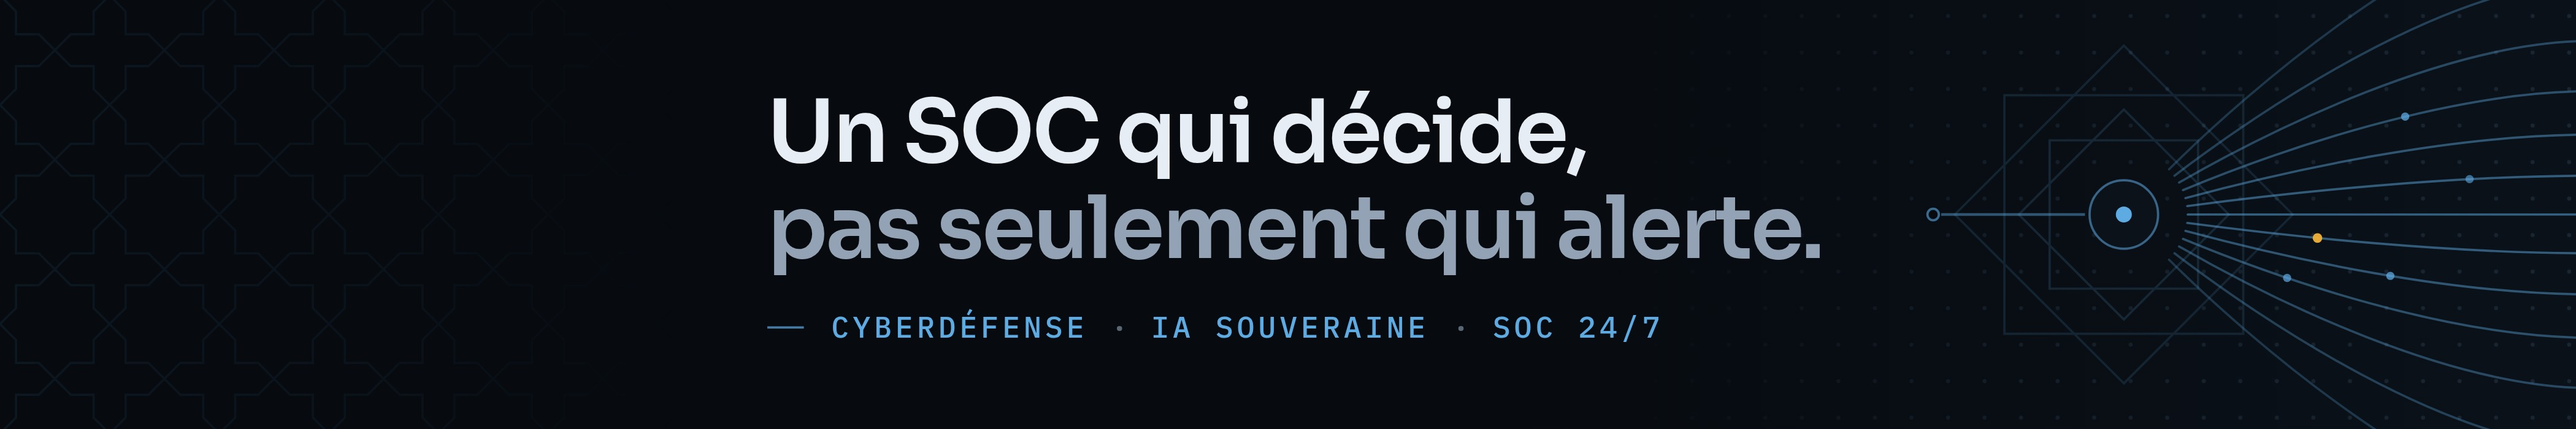
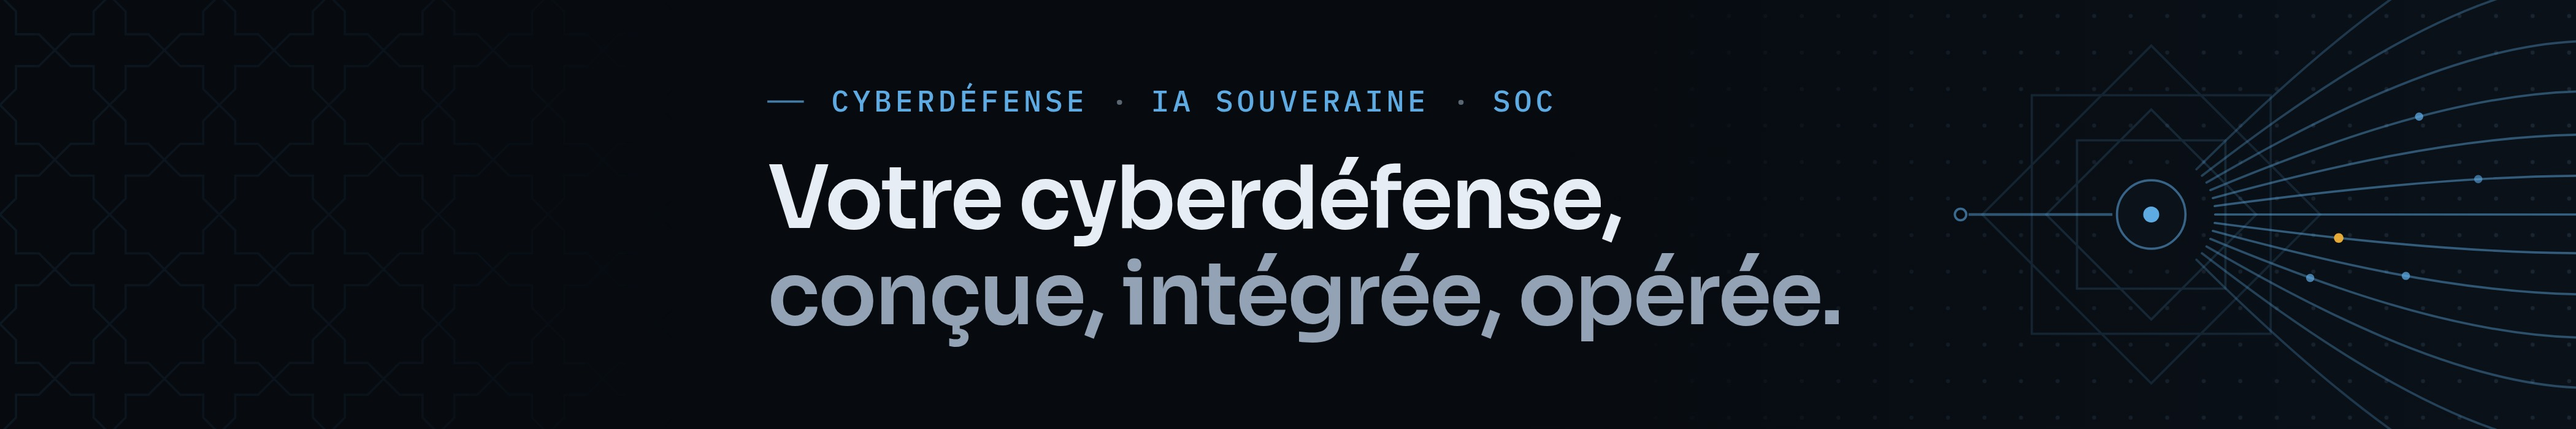
Couverture LinkedIn : titre choisi « Votre cyberdéfense, conçue, intégrée, opérée. », libellés au-dessus (variante en dessous)
Claude-Session: https://claude.ai/code/session_01HngNwfDBcTFc9JetGji5dS

diff --git a/brand/tools/linkedin/cover.html b/brand/tools/linkedin/cover.html
@@ -15,6 +15,7 @@ h1 .second{color:#93A3B5}
  color:#5EAAE3;white-space:nowrap;display:flex;align-items:center;gap:10px}
 .labels::before{content:"";width:16px;height:1px;background:#5EAAE3;opacity:.7;margin-right:2px}
 .labels .sep{color:#93A3B5;opacity:.6;letter-spacing:0}
+
 </style></head><body><div class="cover">
 <svg class="art" width="1128" height="188" viewBox="0 0 1128 188" fill="none" xmlns="http://www.w3.org/2000/svg" aria-hidden="true">
 <defs>
@@ -31,34 +32,34 @@ h1 .second{color:#93A3B5}
 </defs>
 <rect width="1128" height="188" fill="url(#dots)" mask="url(#dotMask)"/>
 <path d="M48 -2L41 5L41 15L31 15L24 22L17 15L7 15L7 5L0 -2L7 -9L7 -19L17 -19L24 -26L31 -19L41 -19L41 -9ZM48 46L41 53L41 63L31 63L24 70L17 63L7 63L7 53L0 46L7 39L7 29L17 29L24 22L31 29L41 29L41 39ZM48 94L41 101L41 111L31 111L24 118L17 111L7 111L7 101L0 94L7 87L7 77L17 77L24 70L31 77L41 77L41 87ZM48 142L41 149L41 159L31 159L24 166L17 159L7 159L7 149L0 142L7 135L7 125L17 125L24 118L31 125L41 125L41 135ZM48 190L41 197L41 207L31 207L24 214L17 207L7 207L7 197L0 190L7 183L7 173L17 173L24 166L31 173L41 173L41 183ZM96 -2L89 5L89 15L79 15L72 22L65 15L55 15L55 5L48 -2L55 -9L55 -19L65 -19L72 -26L79 -19L89 -19L89 -9ZM96 46L89 53L89 63L79 63L72 70L65 63L55 63L55 53L48 46L55 39L55 29L65 29L72 22L79 29L89 29L89 39ZM96 94L89 101L89 111L79 111L72 118L65 111L55 111L55 101L48 94L55 87L55 77L65 77L72 70L79 77L89 77L89 87ZM96 142L89 149L89 159L79 159L72 166L65 159L55 159L55 149L48 142L55 135L55 125L65 125L72 118L79 125L89 125L89 135ZM96 190L89 197L89 207L79 207L72 214L65 207L55 207L55 197L48 190L55 183L55 173L65 173L72 166L79 173L89 173L89 183ZM144 -2L137 5L137 15L127 15L120 22L113 15L103 15L103 5L96 -2L103 -9L103 -19L113 -19L120 -26L127 -19L137 -19L137 -9ZM144 46L137 53L137 63L127 63L120 70L113 63L103 63L103 53L96 46L103 39L103 29L113 29L120 22L127 29L137 29L137 39ZM144 94L137 101L137 111L127 111L120 118L113 111L103 111L103 101L96 94L103 87L103 77L113 77L120 70L127 77L137 77L137 87ZM144 142L137 149L137 159L127 159L120 166L113 159L103 159L103 149L96 142L103 135L103 125L113 125L120 118L127 125L137 125L137 135ZM144 190L137 197L137 207L127 207L120 214L113 207L103 207L103 197L96 190L103 183L103 173L113 173L120 166L127 173L137 173L137 183ZM192 -2L185 5L185 15L175 15L168 22L161 15L151 15L151 5L144 -2L151 -9L151 -19L161 -19L168 -26L175 -19L185 -19L185 -9ZM192 46L185 53L185 63L175 63L168 70L161 63L151 63L151 53L144 46L151 39L151 29L161 29L168 22L175 29L185 29L185 39ZM192 94L185 101L185 111L175 111L168 118L161 111L151 111L151 101L144 94L151 87L151 77L161 77L168 70L175 77L185 77L185 87ZM192 142L185 149L185 159L175 159L168 166L161 159L151 159L151 149L144 142L151 135L151 125L161 125L168 118L175 125L185 125L185 135ZM192 190L185 197L185 207L175 207L168 214L161 207L151 207L151 197L144 190L151 183L151 173L161 173L168 166L175 173L185 173L185 183ZM240 -2L233 5L233 15L223 15L216 22L209 15L199 15L199 5L192 -2L199 -9L199 -19L209 -19L216 -26L223 -19L233 -19L233 -9ZM240 46L233 53L233 63L223 63L216 70L209 63L199 63L199 53L192 46L199 39L199 29L209 29L216 22L223 29L233 29L233 39ZM240 94L233 101L233 111L223 111L216 118L209 111L199 111L199 101L192 94L199 87L199 77L209 77L216 70L223 77L233 77L233 87ZM240 142L233 149L233 159L223 159L216 166L209 159L199 159L199 149L192 142L199 135L199 125L209 125L216 118L223 125L233 125L233 135ZM240 190L233 197L233 207L223 207L216 214L209 207L199 207L199 197L192 190L199 183L199 173L209 173L216 166L223 173L233 173L233 183ZM288 -2L281 5L281 15L271 15L264 22L257 15L247 15L247 5L240 -2L247 -9L247 -19L257 -19L264 -26L271 -19L281 -19L281 -9ZM288 46L281 53L281 63L271 63L264 70L257 63L247 63L247 53L240 46L247 39L247 29L257 29L264 22L271 29L281 29L281 39ZM288 94L281 101L281 111L271 111L264 118L257 111L247 111L247 101L240 94L247 87L247 77L257 77L264 70L271 77L281 77L281 87ZM288 142L281 149L281 159L271 159L264 166L257 159L247 159L247 149L240 142L247 135L247 125L257 125L264 118L271 125L281 125L281 135ZM288 190L281 197L281 207L271 207L264 214L257 207L247 207L247 197L240 190L247 183L247 173L257 173L264 166L271 173L281 173L281 183ZM336 -2L329 5L329 15L319 15L312 22L305 15L295 15L295 5L288 -2L295 -9L295 -19L305 -19L312 -26L319 -19L329 -19L329 -9ZM336 46L329 53L329 63L319 63L312 70L305 63L295 63L295 53L288 46L295 39L295 29L305 29L312 22L319 29L329 29L329 39ZM336 94L329 101L329 111L319 111L312 118L305 111L295 111L295 101L288 94L295 87L295 77L305 77L312 70L319 77L329 77L329 87ZM336 142L329 149L329 159L319 159L312 166L305 159L295 159L295 149L288 142L295 135L295 125L305 125L312 118L319 125L329 125L329 135ZM336 190L329 197L329 207L319 207L312 214L305 207L295 207L295 197L288 190L295 183L295 173L305 173L312 166L319 173L329 173L329 183Z" stroke="#5EAAE3" stroke-opacity=".08" mask="url(#latMask)"/>
-<path d="M982.3 146.3L877.7 146.3L877.7 41.7L982.3 41.7ZM930 168L856 94L930 20L1004 94Z" stroke="#5EAAE3" stroke-opacity=".14"/>
-<path d="M962.5 126.5L897.5 126.5L897.5 61.5L962.5 61.5ZM930 140L884 94L930 48L976 94Z" stroke="#5EAAE3" stroke-opacity=".16"/>
+<path d="M994.3 146.3L889.7 146.3L889.7 41.7L994.3 41.7ZM942 168L868 94L942 20L1016 94Z" stroke="#5EAAE3" stroke-opacity=".14"/>
+<path d="M974.5 126.5L909.5 126.5L909.5 61.5L974.5 61.5ZM942 140L896 94L942 48L988 94Z" stroke="#5EAAE3" stroke-opacity=".16"/>
 <g stroke="#5EAAE3" stroke-width="1" stroke-linecap="round">
- <path d="M1134 -38C1072.8 -38 982.3 41.7 949.8 74.2" stroke-opacity="0.26"/>
- <path d="M1134 -8C1072.8 -8 988.7 49 952.2 77" stroke-opacity="0.32"/>
- <path d="M1134 18C1072.8 18 994.1 57 954.2 80" stroke-opacity="0.37"/>
- <path d="M1134 40C1072.8 40 998.4 65.7 955.9 83.3" stroke-opacity="0.41"/>
- <path d="M1134 59C1072.8 59 1001.5 74.8 957 86.8" stroke-opacity="0.45"/>
- <path d="M1134 77C1072.8 77 1003.4 84.3 957.8 90.3" stroke-opacity="0.49"/>
- <path d="M1134 94C1072.8 94 1004 94 958 94" stroke-opacity="0.52"/>
- <path d="M1134 111C1072.8 111 1003.4 103.7 957.8 97.7" stroke-opacity="0.49"/>
- <path d="M1134 129C1072.8 129 1001.5 113.2 957 101.2" stroke-opacity="0.45"/>
- <path d="M1134 148C1072.8 148 998.4 122.3 955.9 104.7" stroke-opacity="0.41"/>
- <path d="M1134 170C1072.8 170 994.1 131 954.2 108" stroke-opacity="0.37"/>
- <path d="M1134 196C1072.8 196 988.7 139 952.2 111" stroke-opacity="0.32"/>
- <path d="M1134 226C1072.8 226 982.3 146.3 949.8 113.8" stroke-opacity="0.26"/>
+ <path d="M1134 -38C1076.4 -38 994.3 41.7 961.8 74.2" stroke-opacity="0.26"/>
+ <path d="M1134 -8C1076.4 -8 1000.7 49 964.2 77" stroke-opacity="0.32"/>
+ <path d="M1134 18C1076.4 18 1006.1 57 966.2 80" stroke-opacity="0.37"/>
+ <path d="M1134 40C1076.4 40 1010.4 65.7 967.9 83.3" stroke-opacity="0.41"/>
+ <path d="M1134 59C1076.4 59 1013.5 74.8 969 86.8" stroke-opacity="0.45"/>
+ <path d="M1134 77C1076.4 77 1015.4 84.3 969.8 90.3" stroke-opacity="0.49"/>
+ <path d="M1134 94C1076.4 94 1016 94 970 94" stroke-opacity="0.52"/>
+ <path d="M1134 111C1076.4 111 1015.4 103.7 969.8 97.7" stroke-opacity="0.49"/>
+ <path d="M1134 129C1076.4 129 1013.5 113.2 969 101.2" stroke-opacity="0.45"/>
+ <path d="M1134 148C1076.4 148 1010.4 122.3 967.9 104.7" stroke-opacity="0.41"/>
+ <path d="M1134 170C1076.4 170 1006.1 131 966.2 108" stroke-opacity="0.37"/>
+ <path d="M1134 196C1076.4 196 1000.7 139 964.2 111" stroke-opacity="0.32"/>
+ <path d="M1134 226C1076.4 226 994.3 146.3 961.8 113.8" stroke-opacity="0.26"/>
 </g>
-<circle cx="1053.2" cy="51.1" r="1.8" fill="#5EAAE3" fill-opacity="0.75"/>
-<circle cx="1081.4" cy="78.5" r="1.8" fill="#5EAAE3" fill-opacity="0.6"/>
-<circle cx="1046.7" cy="120.9" r="1.8" fill="#5EAAE3" fill-opacity="0.75"/>
-<circle cx="1001.5" cy="121.8" r="1.8" fill="#5EAAE3" fill-opacity="0.7"/>
-<circle cx="1014.8" cy="104.3" r="2.1" fill="#F2B138" fill-opacity="0.95"/>
-<path d="M850 94H913" stroke="#5EAAE3" stroke-opacity=".45" stroke-width="1.2"/>
-<circle cx="846.5" cy="94" r="2.5" fill="#070B10" stroke="#5EAAE3" stroke-opacity=".6"/>
-<circle cx="930" cy="94" r="15" fill="#0B121A" stroke="#5EAAE3" stroke-opacity=".55"/>
-<circle cx="930" cy="94" r="3.5" fill="#5EAAE3"/>
+<circle cx="1059.3" cy="51.1" r="1.8" fill="#5EAAE3" fill-opacity="0.75"/>
+<circle cx="1085.2" cy="78.5" r="1.8" fill="#5EAAE3" fill-opacity="0.6"/>
+<circle cx="1053.5" cy="120.9" r="1.8" fill="#5EAAE3" fill-opacity="0.75"/>
+<circle cx="1011.6" cy="121.8" r="1.8" fill="#5EAAE3" fill-opacity="0.7"/>
+<circle cx="1024.1" cy="104.3" r="2.1" fill="#F2B138" fill-opacity="0.95"/>
+<path d="M862 94H925" stroke="#5EAAE3" stroke-opacity=".45" stroke-width="1.2"/>
+<circle cx="858.5" cy="94" r="2.5" fill="#070B10" stroke="#5EAAE3" stroke-opacity=".6"/>
+<circle cx="942" cy="94" r="15" fill="#0B121A" stroke="#5EAAE3" stroke-opacity=".55"/>
+<circle cx="942" cy="94" r="3.5" fill="#5EAAE3"/>
 </svg>
 <div class="copy">
- <h1>Un SOC qui décide,<br><span class="second">pas seulement qui alerte.</span></h1>
- <p class="labels"><span>Cyberdéfense</span><span class="sep">·</span><span>IA souveraine</span><span class="sep">·</span><span>SOC 24/7</span></p>
+ <h1>Votre cyberdéfense,<br><span class="second">conçue, intégrée, opérée.</span></h1>
+ <p class="labels"><span>Cyberdéfense</span><span class="sep">·</span><span>IA souveraine</span><span class="sep">·</span><span>SOC</span></p>
 </div></div></body></html>

diff --git a/brand/tools/linkedin/build.js b/brand/tools/linkedin/build.js
@@ -1,4 +1,5 @@
-// Couverture LinkedIn BLACKVAULT, direction « Signal souverain » (variante A retenue, corrections des critiques).
+// Couverture LinkedIn BLACKVAULT, direction « Signal souverain » (piste A retenue, corrections des critiques).
+// Titre choisi par le client le 27/09 : « Votre cyberdéfense, conçue, intégrée, opérée. », libellés « Cyberdéfense · IA souveraine · SOC ».
 // Mise en page à 1128 x 188 px CSS (ratio 6:1), export 4200 x 700 (taille de téléversement recommandée par LinkedIn).
 // Usage : node build.js  -> écrit cover.html, puis les PNG/JPG et les aperçus dans assets/linkedin/.
 const fs = require('fs');
@@ -11,9 +12,13 @@ const FONTS = path.join(REPO, 'plugin/blackvault-design/assets/fonts');
 const AVATAR = 'file://' + path.join(REPO, 'assets/favicon/blackvault-icon-512.png');
 const W = 1128, H = 188, EXPORT_W = 4200;
 // Paramètres facultatifs (maquettes de slogans) : L1, L2, LABELS (séparés par |), MOCK_OUT (chemin d'un PNG 2x, sans aperçus).
-const L1 = process.env.L1 || 'Un SOC qui décide,';
-const L2 = process.env.L2 || 'pas seulement qui alerte.';
-const LABELS = (process.env.LABELS || 'Cyberdéfense|IA souveraine|SOC 24/7').split('|');
+const L1 = process.env.L1 || 'Votre cyberdéfense,';
+const L2 = process.env.L2 || 'conçue, intégrée, opérée.';
+const LABELS = (process.env.LABELS || 'Cyberdéfense|IA souveraine|SOC').split('|');
+// Position de la ligne de libellés : 'top' (sur-titre, comme sur le site) ou 'bottom'.
+const LABELS_POS = process.env.LABELS_POS || 'top';
+// Suffixe des fichiers exportés (variante), vide pour la version principale.
+const SUFFIX = process.env.SUFFIX || '';
 const MOCK = process.env.MOCK_OUT || '';
 const DSF = EXPORT_W / W; // 3,7234 -> 4200 x 700
 
@@ -21,7 +26,7 @@ const C = { bg: '#070B10', bgAlt: '#0B121A', borderStrong: '#2A3B4D', ink: '#E6E
 const f = (n) => Number(n.toFixed(1));
 
 // Rails : 13 lignes qui entrent par la droite et convergent vers un nœud creux.
-const node = { x: 930, y: H / 2, ring: 15 };
+const node = { x: 942, y: H / 2, ring: 15 };
 const railStartX = W + 6, span = railStartX - node.x, END_R = 28, LEAD = 46, MAXANG = 45;
 const offsets = [-132, -102, -76, -54, -35, -17, 0, 17, 35, 54, 76, 102, 132];
 const rails = offsets.map((o, i) => {
@@ -60,7 +65,7 @@ const star = (cx, cy, R) => {
 let lattice = '';
 for (let x = 24; x < 340; x += 48) for (let y = H / 2 - 96; y < H + 48; y += 48) lattice += star(x, y, 24);
 
-const out = { x1: 850, x2: node.x - node.ring - 2 };
+const out = { x1: 862, x2: node.x - node.ring - 2 };
 
 const LATIN = 'U+0000-00FF, U+0131, U+0152-0153, U+02BB-02BC, U+02C6, U+02DA, U+02DC, U+0304, U+0308, U+0329, U+2000-206F, U+20AC, U+2122, U+2191, U+2193, U+2212, U+2215, U+FEFF, U+FFFD';
 const LATIN_EXT = 'U+0100-02BA, U+02BD-02C5, U+02C7-02CC, U+02CE-02D7, U+02DD-02FF, U+1E00-1E9F, U+20A0-20AB, U+20AD-20C0, U+2C60-2C7F, U+A720-A7FF';
@@ -111,6 +116,7 @@ h1 .second{color:${C.muted}}
  color:${C.accentSoft};white-space:nowrap;display:flex;align-items:center;gap:10px}
 .labels::before{content:"";width:16px;height:1px;background:${C.accentSoft};opacity:.7;margin-right:2px}
 .labels .sep{color:${C.muted};opacity:.6;letter-spacing:0}
+${LABELS_POS === 'top' ? '.labels{order:-1}' : ''}
 </style></head><body><div class="cover">
 ${svg}
 <div class="copy">
@@ -151,11 +157,11 @@ body{width:390px;height:320px;background:#fff;font-family:${SYS};overflow:hidden
   });
   const clip = { x: 0, y: 0, width: W, height: H };
   if (MOCK) { await p.screenshot({ path: MOCK, clip }); await b.close(); fs.unlinkSync(path.join(__dirname, '_mock.html')); console.log(JSON.stringify(info)); return; }
-  await p.screenshot({ path: path.join(OUT, 'blackvault-linkedin-couverture-4200x700.png'), clip });
-  await p.screenshot({ path: path.join(OUT, 'blackvault-linkedin-couverture-4200x700.jpg'), clip, type: 'jpeg', quality: 92 });
+  await p.screenshot({ path: path.join(OUT, `blackvault-linkedin-couverture-4200x700${SUFFIX}.png`), clip });
+  await p.screenshot({ path: path.join(OUT, `blackvault-linkedin-couverture-4200x700${SUFFIX}.jpg`), clip, type: 'jpeg', quality: 92 });
   await ctx.close();
-  const src = 'file://' + path.join(OUT, 'blackvault-linkedin-couverture-4200x700.png');
-  for (const [name, htmlStr, vw, vh] of [['apercu-desktop.png', desktop(src), 1400, 520], ['apercu-mobile.png', mobile(src), 390, 320]]) {
+  const src = 'file://' + path.join(OUT, `blackvault-linkedin-couverture-4200x700${SUFFIX}.png`);
+  for (const [name, htmlStr, vw, vh] of [[`apercu-desktop${SUFFIX}.png`, desktop(src), 1400, 520], [`apercu-mobile${SUFFIX}.png`, mobile(src), 390, 320]]) {
     const tmp = path.join(__dirname, '_' + name + '.html'); fs.writeFileSync(tmp, htmlStr);
     const c2 = await b.newContext({ viewport: { width: vw, height: vh }, deviceScaleFactor: name.includes('mobile') ? 3 : 1 });
     const q = await c2.newPage(); await q.goto('file://' + tmp);

diff --git a/ASSETS.md b/ASSETS.md
@@ -113,7 +113,7 @@ Tous les médias créés portent la méta `_bvd_created` (version du plugin), ce
 | `assets/linkedin/apercu-desktop.png`, `apercu-mobile.png` | Mises en situation approximatives : logo de la page en bas à gauche ; recadrage mobile sur les 900 px centraux |
 | `brand/tools/linkedin/build.js`, `cover.html` | Générateur (HTML/SVG rendu par Chromium) ; `brand/boards/linkedin-variantes.png` montre les 3 pistes étudiées |
 
-Composition : piste « Signal » retenue par deux critiques indépendants, parmi trois (Signal, Écosystème avec logos produit, Souverain). Le slogan existant « Un SOC qui décide, pas seulement qui alerte. » et les libellés existants « Cyberdéfense · IA souveraine · SOC 24/7 », sans aucun ajout de texte. À droite, les rails du héros du site convergent vers un nœud creux, avec deux étoiles zellige ; une trame zellige très légère passe sous le logo de la page. Polices Sora 600 et IBM Plex Mono 500 (OFL), palette du site, aucun logo tiers.
+Composition : piste « Signal » retenue par deux critiques indépendants, parmi trois (Signal, Écosystème avec logos produit, Souverain). Titre choisi par l'utilisateur le 27/09 parmi les propositions de `brand/SLOGANS.md` : « Votre cyberdéfense, conçue, intégrée, opérée. », avec la ligne « Cyberdéfense · IA souveraine · SOC » au-dessus, en sur-titre comme sur le site. Une variante garde cette ligne sous le titre : fichiers suffixés `-libelles-dessous`. La première version (« Un SOC qui décide, pas seulement qui alerte. ») reste dans l'historique git. À droite, les rails du héros du site convergent vers un nœud creux, avec deux étoiles zellige ; une trame zellige très légère passe sous le logo de la page. Polices Sora 600 et IBM Plex Mono 500 (OFL), palette du site, aucun logo tiers.
 
-Zones de sécurité : texte entre x 336 et 798 sur 1128, hors de la zone du logo (bas gauche) et du coin bas droit, et dans les 900 px centraux gardés sur mobile. La variante avec les logos produit a été écartée : à 191 px de haut, les logos deviennent des taches illisibles, surtout sur mobile.
+Zones de sécurité : texte entre x 336 et 806 sur 1128, hors de la zone du logo (bas gauche) et du coin bas droit, et dans les 900 px centraux gardés sur mobile. La variante avec les logos produit a été écartée : à 191 px de haut, les logos deviennent des taches illisibles, surtout sur mobile.
 

diff --git a/CLAUDE.md b/CLAUDE.md
@@ -72,3 +72,4 @@ Première action : enregistre ce brief tel quel dans ./CLAUDE.md (il doit surviv
 - 27/09/2026 : l'utilisateur demande d'utiliser les logos officiels des solutions (présentation « BLACKVAULT Présentation Plateforme », fiches produit) et ceux d'IA Orchestrator et d'ASTRO. Décision : les glyphes line-art sont retirés de l'affichage ; les logos d'origine de la médiathèque (1693 à 1706) reviennent, posés sur des tuiles et scènes sombres ; l'écosystème, les cartes IA Orchestrator / ASTRO, le héros de la page IA souveraine et les cartes OG utilisent les logos officiels. Les verts et effets lumineux propres à ces logos sont assumés comme éléments de marque ; l'interface garde l'accent bleu unique.
 - 27/09/2026 : à la demande explicite de l'utilisateur, le texte d'introduction du héros de l'accueil est remplacé (exception au garde-fou 6 décidée par l'utilisateur, CHANGELOG n° 15). La méta-description Yoast reste inchangée.
 - 27/09/2026 : retours sur la page IA souveraine et l'écosystème : IA Orchestrator seul dans le héros et au centre de l'écosystème, logo ASTRO dans la section qui décrit ASTRO (plugin 1.1.1).
+- 27/09/2026 : couverture LinkedIn (hors site). Titre choisi par l'utilisateur : « Votre cyberdéfense, conçue, intégrée, opérée. », libellés « Cyberdéfense · IA souveraine · SOC » au-dessus du titre (variante en dessous fournie). Aucun changement sur blackvault.ma.

diff --git a/brand/SLOGANS.md b/brand/SLOGANS.md
@@ -1,5 +1,7 @@
 # Slogans : propositions au-delà du SOC
 
+**Choix de l'utilisateur (27/09) : n° 2, « Votre cyberdéfense, conçue, intégrée, opérée. », avec « Cyberdéfense · IA souveraine · SOC » en libellés.** Appliqué à la couverture LinkedIn (`assets/linkedin/`).
+
 27/09/2026. Demande : ne plus limiter le message au SOC, et donner toute leur place à la cyberdéfense et à l'intégration de solutions. 47 propositions ont été rédigées sous 5 angles (intégration et cyberdéfense, de bout en bout, souveraineté, acteur institutionnel, signatures courtes). Deux critiques indépendants les ont notées : conformité et positionnement, puis force créative pour un lecteur RSSI ou DSI. Toutes s'appuient sur des formules existantes du site ou de la présentation ; aucune n'ajoute de chiffre, de garantie ou de superlatif. Planche : `boards/linkedin-slogans.png`.
 
 ## Titres pour la bannière (2 lignes)
